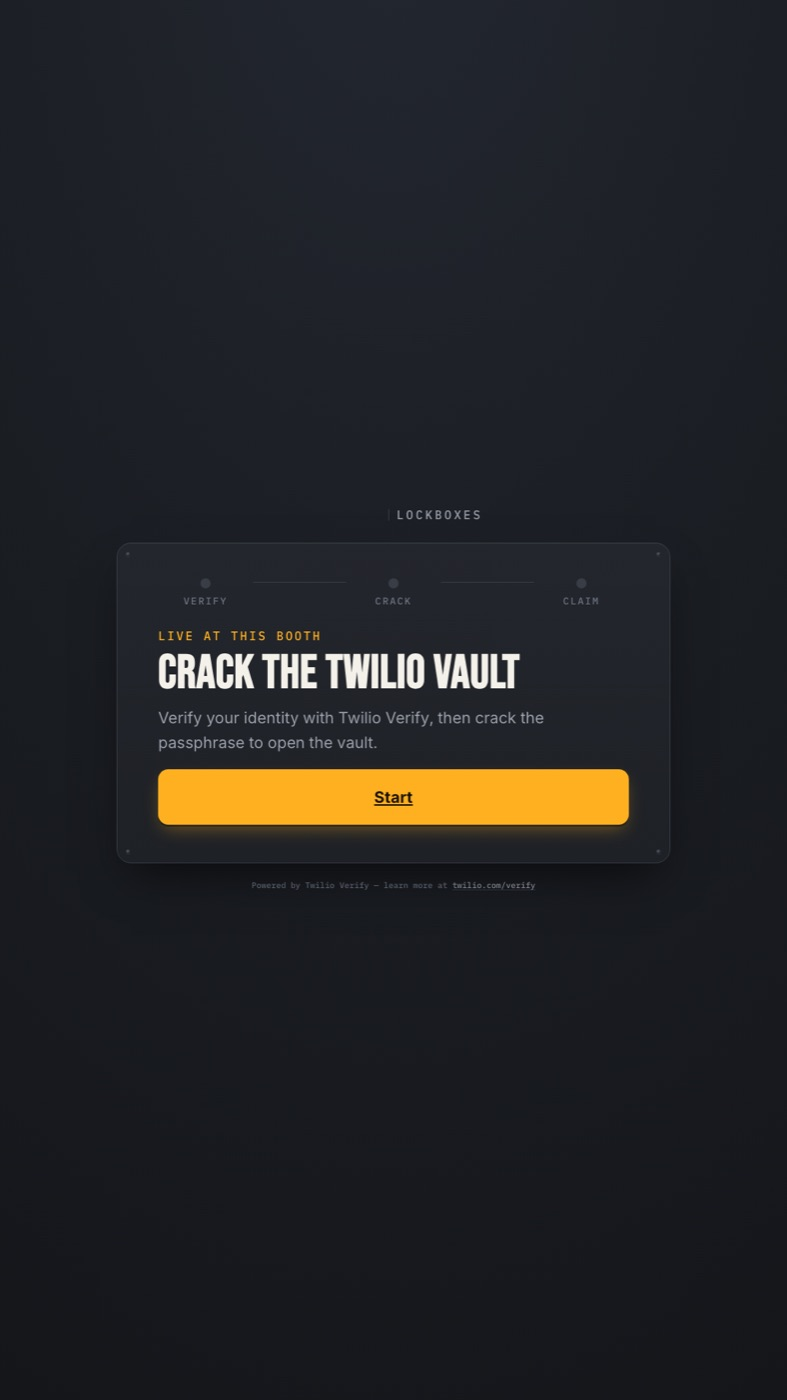
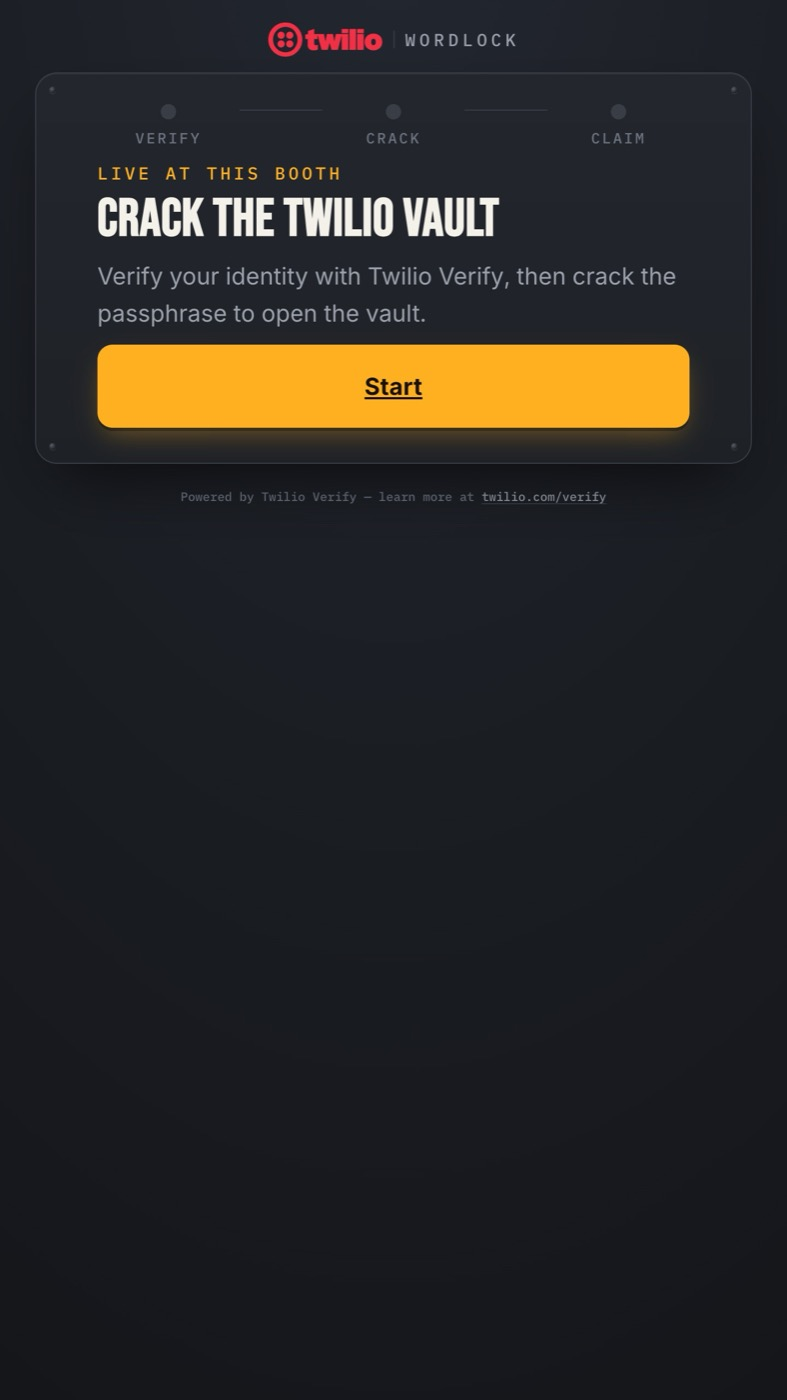
chore: drop Highcharts, refresh screenshots, add agent skills (#2)
* chore: drop unused Highcharts peer, add agent skills

Highcharts (commercial license) was only auto-installed as an optional peer
of Twilio Paste's chart packages; the app uses Recharts. Override it away so
it never lands in the lockfile or node_modules.

Move the project's agent skills into .agents/skills.

* docs: refresh screenshots with the Wordlock branding

---------

diff --git a/.agents/skills/frontend-design/SKILL.md b/.agents/skills/frontend-design/SKILL.md
@@ -1,0 +1,55 @@
+---
+name: frontend-design
+description: Guidance for distinctive, intentional visual design when building new UI or reshaping an existing one. Helps with aesthetic direction, typography, and making choices that don't read as templated defaults.
+license: Complete terms in LICENSE.txt
+---
+
+# Frontend Design
+
+Approach this as the design lead at a small studio known for giving every client a visual identity that could not be mistaken for anyone else's. This client has already rejected proposals that felt templated, and is paying for a distinctive point of view: make deliberate, opinionated choices about palette, typography, and layout that are specific to this brief, and take one real aesthetic risk you can justify.
+
+## Ground it in the subject
+
+If the brief does not pin down what the product or subject is, pin it yourself before designing: name one concrete subject, its audience, and the page's single job, and state your choice. If there's any information in your memory about the human's preferences, context about what they're building, or designs you've made before – use that as a hint. The subject's own world, its materials, instruments, artifacts, and vernacular, is where distinctive choices come from. Build with the brief's real content and subject matter throughout.
+
+## Design principles
+
+For web designs, the hero is a thesis. Open with the most characteristic thing in the subject's world, in whatever form makes sense for it: a headline, an image, an animation, a live demo, an interactive moment. Be deliberate with your choice: a big number with a small label, supporting stats, and a gradient accent is the template answer, only use if that's truly the best option.
+
+Typography carries the personality of the page. Pair the display and body faces deliberately, not the same families you would reach for on any other project, and set a clear type scale with intentional weights, widths, and spacing. Make the type treatment itself a memorable part of the design, not a neutral delivery vehicle for the content.
+
+Structure is information. Structural devices, numbering, eyebrows, dividers, labels, should encode something true about the content, not decorate it. Many generic designs use numbered markers (01 / 02 / 03), but that's only appropriate if the content actually is a sequence - like a real process or a typed timeline where order carries information the reader needs. Question if choices like numbered markers actually make sense before incorporating them.
+
+Leverage motion deliberately. Think about where and if animation can serve the subject: a page-load sequence, a scroll-triggered reveal, hover micro-interactions, ambient atmosphere. An orchestrated moment usually lands harder than scattered effects; choose what the direction calls for. However, sometimes less is more, and extra animation contributes to the feeling that the design is AI-generated.
+
+Match complexity to the vision. Maximalist directions need elaborate execution; minimal directions need precision in spacing, type, and detail. Elegance is executing the chosen vision well.
+
+Consider written content carefully. Often a design brief may not contain real content, and it's up to you to come up with copy. Copy can make a design feel as templated as the design itself. See the below section on writing for more guidance.
+
+## Process: brainstorm, explore, plan, critique, build, critique again
+
+For calibration: AI-generated design right now clusters around three looks: (1) a warm cream background (near #F4F1EA) with a high-contrast serif display and a terracotta accent; (2) a near-black background with a single bright acid-green or vermilion accent; (3) a broadsheet-style layout with hairline rules, zero border-radius, and dense newspaper-like columns. All three are legitimate for some briefs, but they are defaults rather than choices, and they appear regardless of subject. Where the brief pins down a visual direction, follow it exactly — the brief's own words always win, including when it asks for one of these looks. Where it leaves an axis free, don't spend that freedom on one of these defaults. Just like a human designer who's hired, there's often a careful balance between doing what you're good at and taking each project as a chance to experiment and learn.
+
+Work in two passes. First, brainstorm a short design plan based on the human's design brief: create a compact token system with color, type, layout, and signature. Color: describe the palette as 4–6 named hex values. Type: the typefaces for 2+ roles (a characterful display face that's used with restraint, a complementary body face, and a utility face for captions or data if needed). Layout: a layout concept, using one-sentence prose descriptions and ASCII wireframes to ideate and compare. Signature: the single unique element this page will be remembered by that embodies the brief in an appropriate way.
+
+Then review that plan against the brief before building: if any part of it reads like the generic default you would produce for any similar page (work through a similar prompt to see if you arrive somewhere similar) rather than a choice made for this specific brief — revise that part, say what you changed and why. Only after you've confirmed the relative uniqueness of your design plan should you start to write the code, following the revised plan exactly and deriving every color and type decision from it.
+
+When writing the code, be careful of structuring your CSS selector specificities. It's easy to generate CSS classes that cancel each other out (especially with a type-based selector like .section and a element-based selector like .cta). This can happen often with paddings/margins between sections.
+
+Try to do a lot of this planning and iteration in your thinking, and only show ideas to the user when you have higher confidence it'll delight them.
+
+## Restraint and self-critique
+
+Spend your boldness in one place. Let the signature element be the one memorable thing, keep everything around it quiet and disciplined, and cut any decoration that does not serve the brief. Not taking a risk can be a risk itself! Build to a quality floor without announcing it: responsive down to mobile, visible keyboard focus, reduced motion respected. Critique your own work as you build, taking screenshots if your environment supports it – a picture is worth 1000 tokens. Consider Chanel's advice: before leaving the house, take a look in the mirror and remove one accessory. Human creators have memory and always try to do something new, so if you have a space to quickly jot down notes about what you've tried, it can help you in future passes.
+
+## More on writing in design
+
+Words appear in a design for one reason: to make it easier to understand, and therefore easier to use. They are design material, not decoration. Bring the same intentionality to copy that you would bring to spacing and color. Before writing anything, ask what the design needs to say, and how it can best be said to help the person navigate the experience.
+
+Write from the end user's side of the screen. Name things by what people control and recognize, never by how the system is built. A person manages notifications, not webhook config. Describe what something does in plain terms rather than selling it. Being specific is always better than being clever.
+
+Use active voice as default. A control should say exactly what happens when it's used: "Save changes," not "Submit." An action keeps the same name through the whole flow, so the button that says "Publish" produces a toast that says "Published." The vocabulary of an interface is the signposting for someone navigating the product. Cohesion and consistency are how people learn their way around.
+
+Treat failure and emptiness as moments for direction, not mood. Explain what went wrong and how to fix it, in the interface's voice rather than a person's. Errors don't apologize, and they are never vague about what happened. An empty screen is an invitation to act.
+
+Keep the register conversational and tuned: plain verbs, sentence case, no filler, with tone matched to the brand and the audience. Let each element do exactly one job. A label labels, an example demonstrates, and nothing quietly does double duty.

diff --git a/.agents/skills/web-design-guidelines/SKILL.md b/.agents/skills/web-design-guidelines/SKILL.md
@@ -1,0 +1,39 @@
+---
+name: web-design-guidelines
+description: Review UI code for Web Interface Guidelines compliance. Use when asked to "review my UI", "check accessibility", "audit design", "review UX", or "check my site against best practices".
+metadata:
+  author: vercel
+  version: "1.0.0"
+  argument-hint: <file-or-pattern>
+---
+
+# Web Interface Guidelines
+
+Review files for compliance with Web Interface Guidelines.
+
+## How It Works
+
+1. Fetch the latest guidelines from the source URL below
+2. Read the specified files (or prompt user for files/pattern)
+3. Check against all rules in the fetched guidelines
+4. Output findings in the terse `file:line` format
+
+## Guidelines Source
+
+Fetch fresh guidelines before each review:
+
+```
+https://raw.githubusercontent.com/vercel-labs/web-interface-guidelines/main/command.md
+```
+
+Use WebFetch to retrieve the latest rules. The fetched content contains all the rules and output format instructions.
+
+## Usage
+
+When a user provides a file or pattern argument:
+1. Fetch guidelines from the source URL above
+2. Read the specified files
+3. Apply all rules from the fetched guidelines
+4. Output findings using the format specified in the guidelines
+
+If no files specified, ask the user which files to review.

diff --git a/.agents/skills/grill-me/SKILL.md b/.agents/skills/grill-me/SKILL.md
@@ -1,0 +1,7 @@
+---
+name: grill-me
+description: A relentless interview to sharpen a plan or design.
+disable-model-invocation: true
+---
+
+Run a `/grilling` session.
